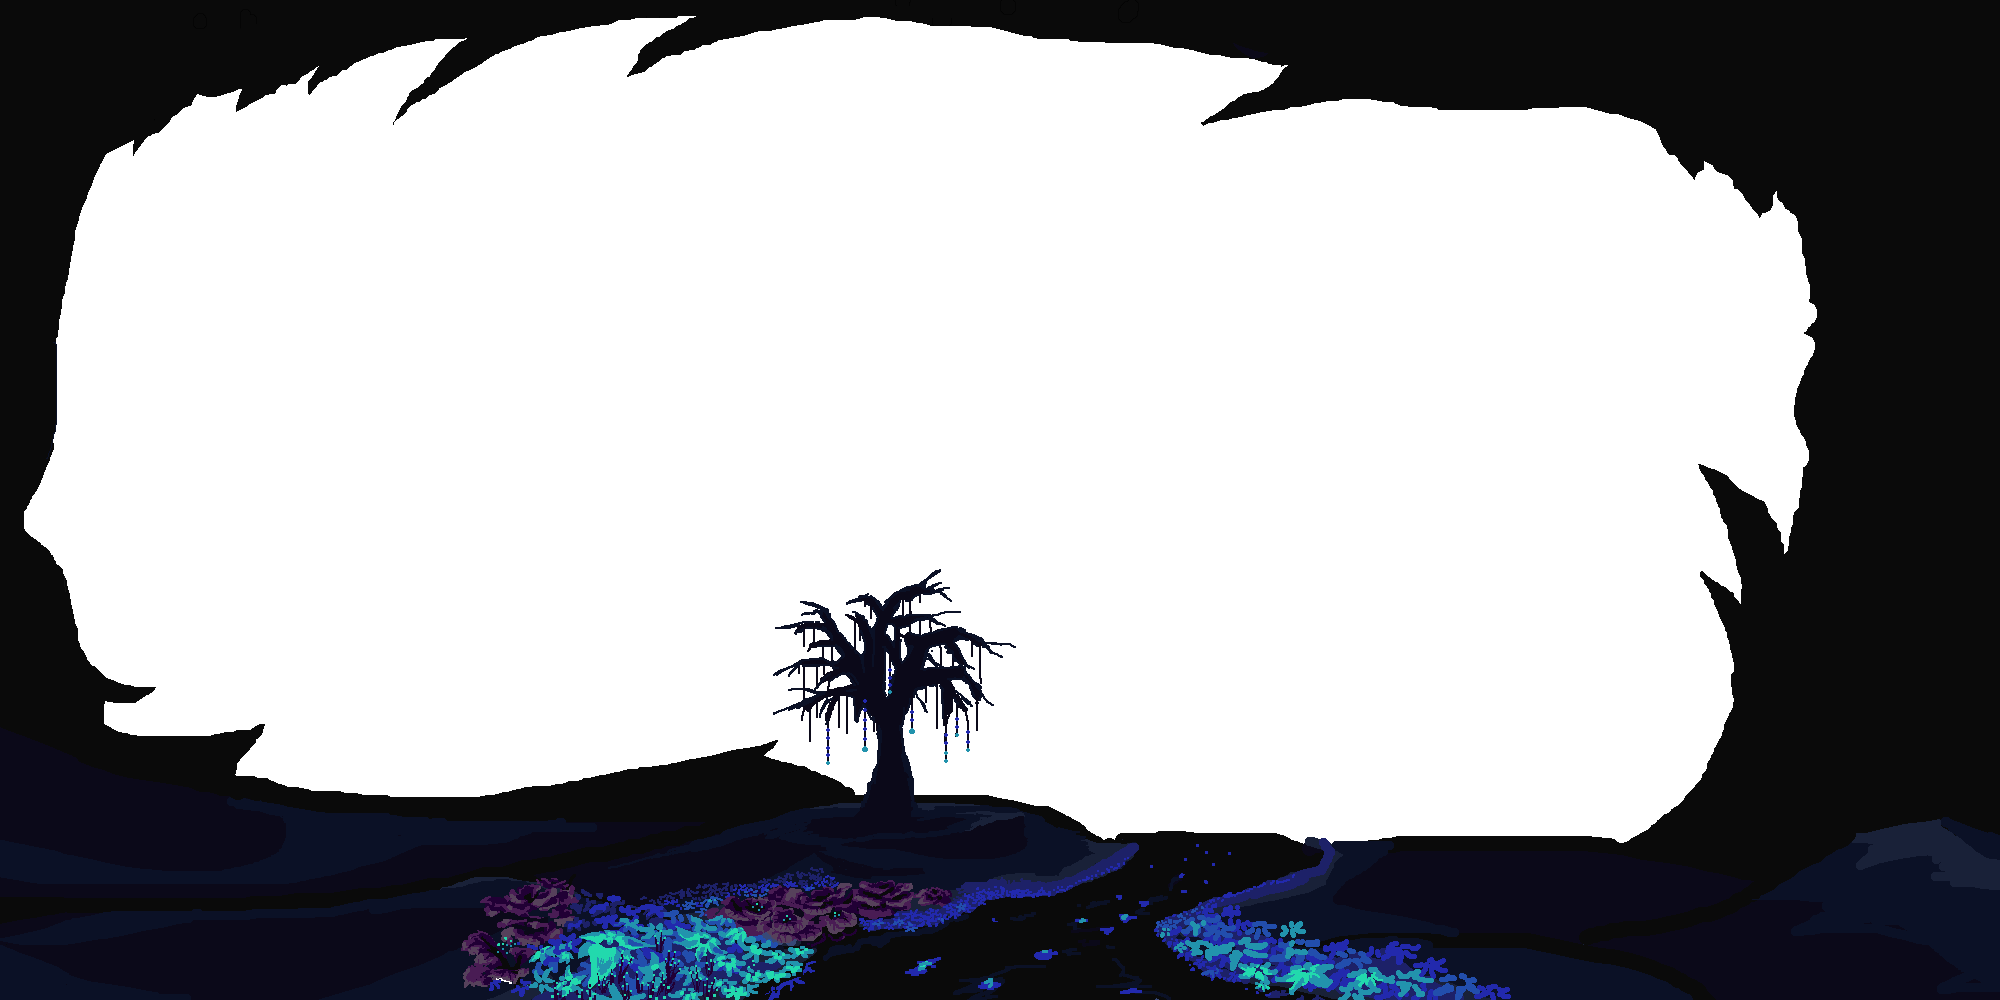
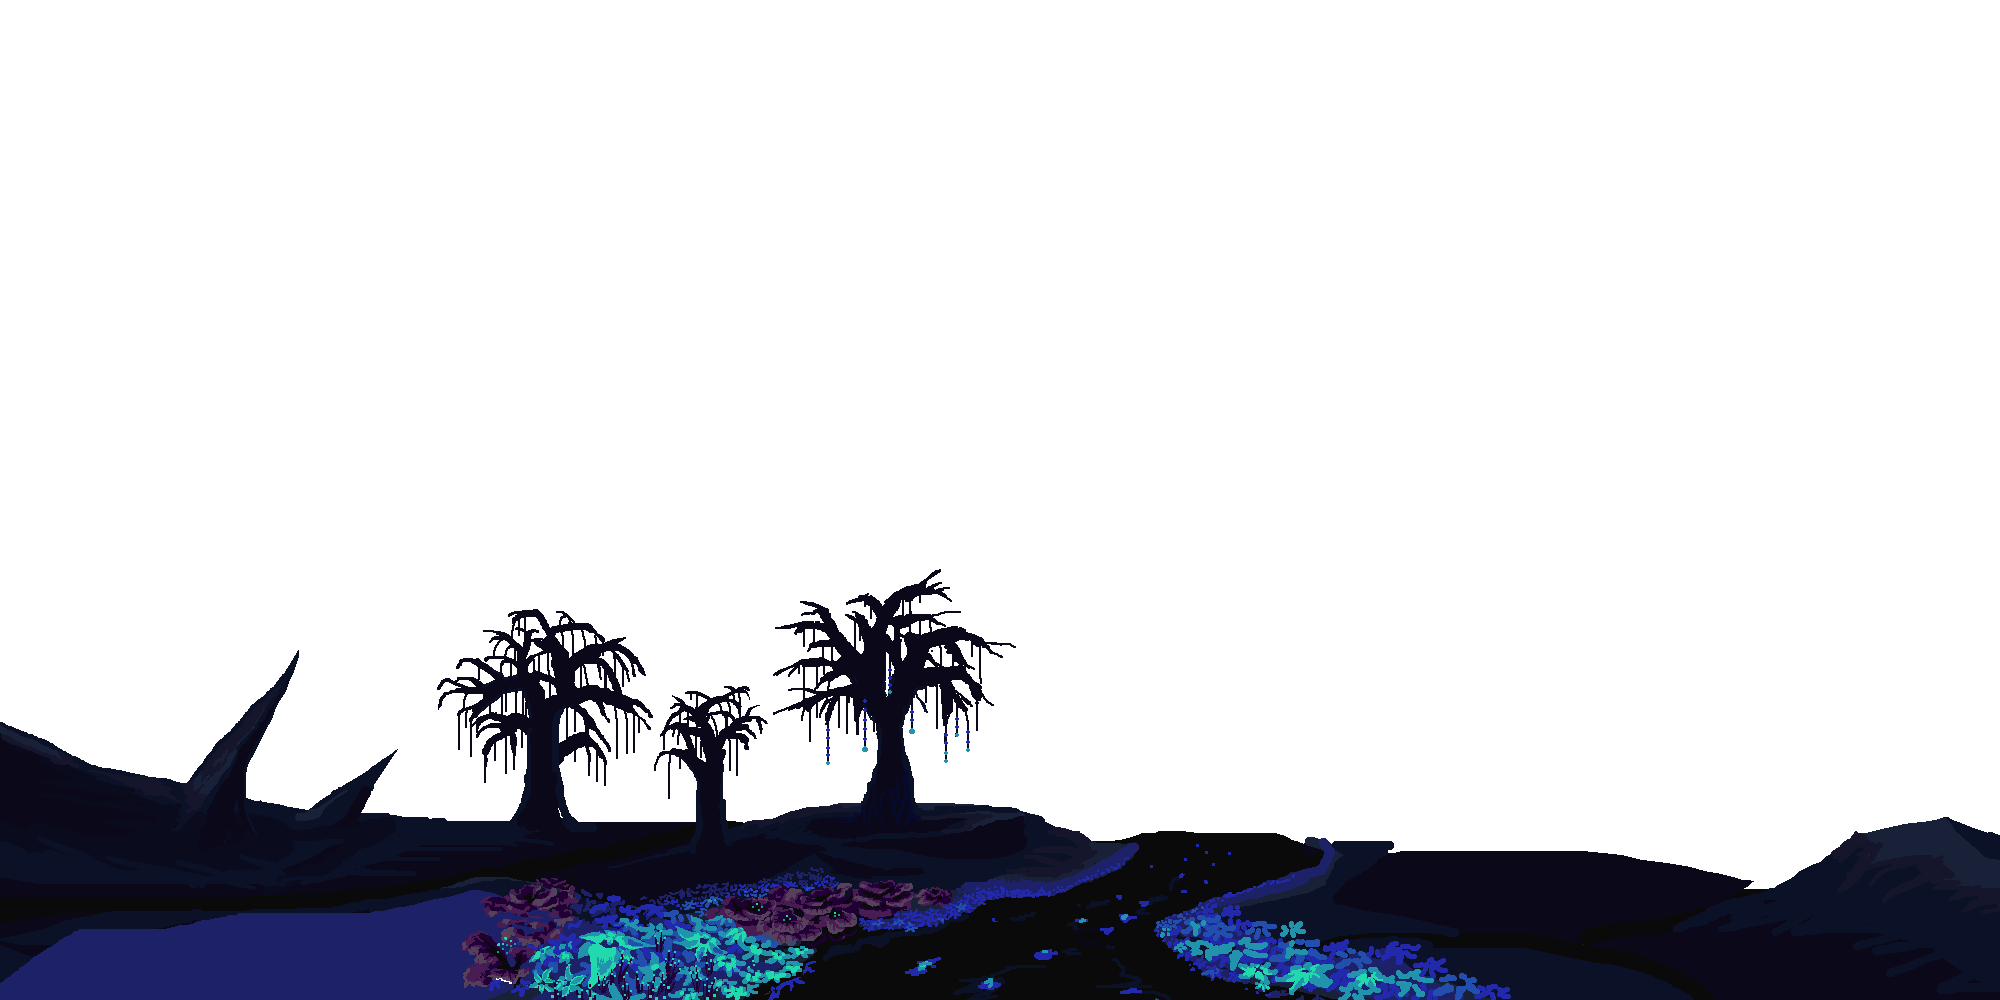
Background

Changed region(s): [[0.0, 0.0, 1.0, 0.93], [0.0, 0.868, 0.31, 1.0], [0.465, 0.775, 0.558, 0.837]]

diff --git a/Sources/Modules/MythModule/TheFirefly/Backgrounds/MothBackground.cs b/Sources/Modules/MythModule/TheFirefly/Backgrounds/MothBackground.cs
@@ -212,6 +212,7 @@ namespace Everglow.Sources.Modules.MythModule.TheFirefly.Backgrounds
             var texSky = MythContent.QuickTexture("TheFirefly/Backgrounds/FireflySky");
             var texFar = MythContent.QuickTexture("TheFirefly/Backgrounds/FireflyFar");
             var texMiddle = MythContent.QuickTexture("TheFirefly/Backgrounds/FireflyMiddle");
+            var texMidClose = MythContent.QuickTexture("TheFirefly/Backgrounds/FireflyMidClose");
             var texClose = MythContent.QuickTexture("TheFirefly/Backgrounds/FireflyClose");
             Main.spriteBatch.End();
             Main.spriteBatch.Begin(SpriteSortMode.Deferred, BlendState.AlphaBlend);
@@ -224,12 +225,13 @@ namespace Everglow.Sources.Modules.MythModule.TheFirefly.Backgrounds
             DrawGlowSec(texClose.Size(), 0.17f);
             Main.spriteBatch.End();
             Main.spriteBatch.Begin(SpriteSortMode.Deferred, BlendState.AlphaBlend);
-            Main.spriteBatch.Draw(texClose, screen, GetDrawRec(texClose.Size(), 0.25f), Color.White);
+            Main.spriteBatch.Draw(texMidClose, screen, GetDrawRec(texMidClose.Size(), 0.25f), Color.White);
             Main.spriteBatch.End();
             Main.spriteBatch.Begin(SpriteSortMode.Deferred, BlendState.AlphaBlend);
             DrawGlow(texClose.Size(), 0.25f);
             Main.spriteBatch.End();
             Main.spriteBatch.Begin(SpriteSortMode.Deferred, BlendState.AlphaBlend);
+            Main.spriteBatch.Draw(texClose, screen, GetDrawRec(texClose.Size(), 0.33f), Color.White);
             OldMouseW[0] = Main.MouseWorld;
             for (int f = OldMouseW.Length - 1; f > 0; f--)
             {
